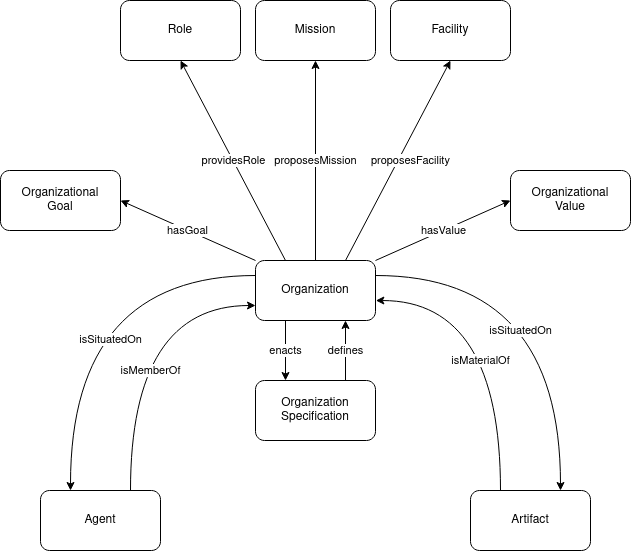
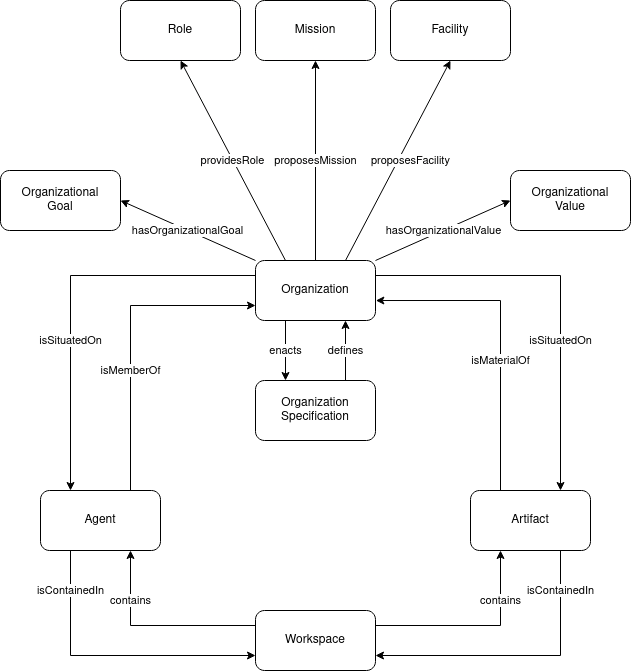
Rephrased Competency Questions; Adjusted Ontology

diff --git a/domains/logistics/create-organization/README.md b/domains/logistics/create-organization/README.md
@@ -10,7 +10,7 @@ The main aspect of the SL Logistics that motivated John to copy its organization
 * **Organizational Values**
   + _Commitment_: Do everything you can to keep the organization promisses to the customers.
   + _Integrity and Respect_: Communicate openly and honestly with the customers and other members of the organization.
-* **Organization Goals**
+* **Organizational Goals**
   + _Enhanced Customer Service_: Better handling of transportation and the overall logistics operation.
   + _Enhanced Efficiency_: Increase the cost-effectiviness of the transportation system, reduce overhead costs and simplify the order processing.
 
@@ -27,10 +27,10 @@ Additionally, the FL Logistics will mirror the composition of the SL Logistics a
 
 | ID | Question in Natural Language | Example |
 |----|------------------------------|---------|
-| q1 | How can someone copy an enterprise X's organizational model for creating a new enterprise?                           | How can John replicate the SL Logistics' organizational model to create the FL Logistics? |
-| q2 | How can someone discover the enterprises that follows a different organizational model to compare with enterprise X? | How can John discover similar enterprises whose organizational model are different to compare with SL Logistics' organizational model?                                |
-| q3 | How to restrict the discovery of enterprises with the same organizational model and situated on Y?                   | How can John discover enterprises with the same organizational model than SL Logistics that are accessible to him?                                                    |
-| q4 | How can someone create an enterprise based on an existing organizational model?                                      | If John identifies that the SL Logistics' organizational model is not adequate, how can he create a new enterprise from a theoretical model (i.e., not yet enacted)?  |
+| q1 | What is the enterprise X's organizational model that can be used to create a new enterprise?    | What is the SL Logistics' organizational model that John uses to create the FL Logistics? **ex:Logistics**                               |
+| q2 | What are the enterprises that follows a different organizational model than enterprise X?       | What are the enterprises that follows a different organizational model than SL Logistics? **ex:HSG_Factory**, **ex:ITM_Factory**         |
+| q3 | What are the enterprises with the same organizational model as enterprise X and contained in Y? | What are the enterprises with the same organizational model as SL Logistics and contained in same Workspace? **ex:GL\_Logistics**        |
+| q4 | What are the available organizational models that can be used to create an new enterprise?      | What are the available organizational models that can be used by John to create the FL Logistics? **ex:Logistics**, **ex:Manufacturing** |
 
 ## Glossary
 
@@ -41,9 +41,9 @@ Additionally, the FL Logistics will mirror the composition of the SL Logistics a
 * **Situated Organization**: An Organization is situated through its Members and Materials.
 * **Member**: A Member refers to an Agent that belongs to an Organization.
 * **Material**: A Material refers to an Artifact that belongs to an Organization.
-* **Role**: A Role is used to define the position that Agents can adopt in an Organization.
+* **Role**: A Role defines the position that Agents can adopt in an Organization.
 * **Mission**: A Mission gathers Organizational Goals that can be achieved by Agents in an Organization in relation to a Social Activity.
-* **Facility**: A Facility is used to define functions that are offered by Materials in an Organization in relation to a Space.
+* **Facility**: A Facility defines functions that are offered by Materials in an Organization in relation to a Space.
 
 ## Recommendations
 
